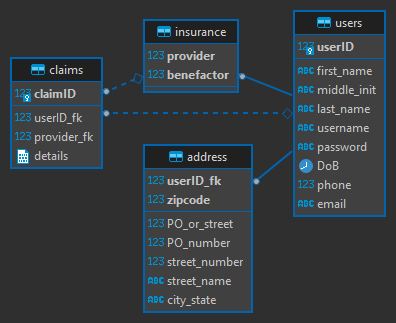
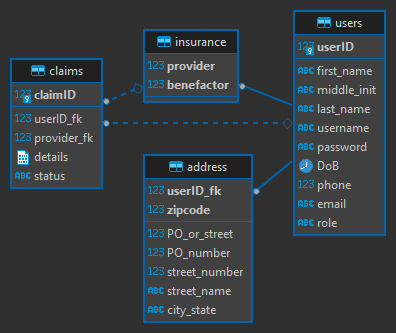
R

Changed region(s): [[0.0, 0.031, 1.0, 0.9907]]

diff --git a/README.md b/README.md
@@ -1,30 +1,38 @@
 # ABOUT
-
+As the health care insurance world becomes more complicted as various companies strive to confuse patient health billing, Easy Pickings LLC. strives to simplify the process with a stream-lined user interface to manage claims amongst various insurance companies and hospitals. We serve as an intermediary between all parties and where users have the independence to file and montitor their own claims. This will remove the strain on the hospitals to deal with the business side of these claims so they can focus on getting everyone back in working order.
 # User Stories
 - The user will need a way to register a new account
 - The user will need a way to login with an existing account
 - The user will be able to reset their password
-- 
+- A user can either be a patient or employee of the insurance company
+- A patient can file a claim
+- A patient can view all their filed claims
+- An employee can view all filed claims
+- An employee can approve or deny a pending claim
 # MVP Requirements
 - Login
+    - existing users can use the system
 - Registration
-- Reset password
-- User Profile
-    - This should contain past carts and an order history
-- Display Products
-- Cart
-- Checkout
+    - new users can be added
+- User roles
+    - Can either be patient or employee
+- Update contact information
+    - A user should be able to update their address, phone-number, email, and full name if need be
+- Reset password 
+    - forgetful people can make a new password
+- File claims
+    - A patient can file a claim for insurance assistance
+- Processing claims
+    - An employee can either approve or deny a pending claim
 # Stretch Goals 
-- Adding different color themes including Dark Mode
-- Sales/Deals ("UPDATE" command?)
-- Quantity Select
-- JWT
-- Tech Support Chat
-    - FAQ on self- solutions?
-- Notifications
-- Featured Products (most bought?)
-- Possible addition of backed cyrpto currency
-    - Bitcoin
+- JWT Implementation
+- Discussion boards
+- COVAX Verification 
+- Dark Mode
+- Insurance card exportation
+- Tech support Live Chat
+- Ticketing system
+- Scheduling tools
 # Technology used
 - C#
 - ASP.NET Core
@@ -38,9 +46,9 @@
 - Entity Framework Core
 # Tables
 - users
-- products
-- cart
-- order-history
+- insurance
+- address
+- claims
 
 # Entity Relationship Diagram
-![ERD](ERD-png)
+![ERD](ERD.png)
